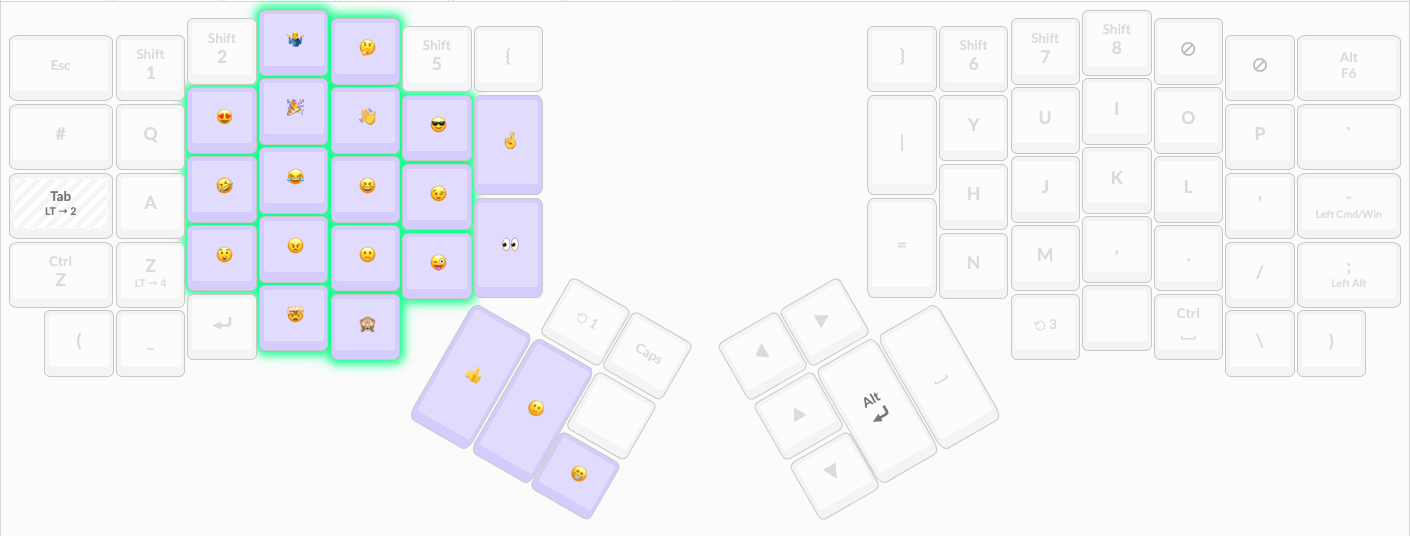
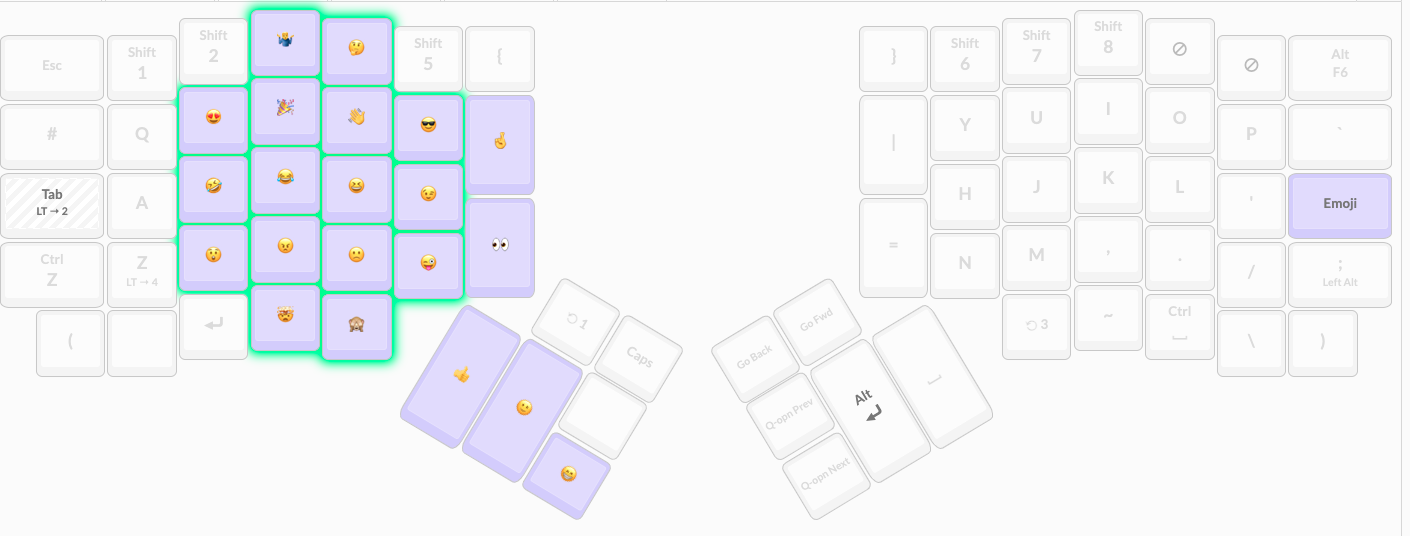
move emoji key

diff --git a/keyboards/ergodox_ez/keymaps/stoneman/keymap.c b/keyboards/ergodox_ez/keymaps/stoneman/keymap.c
@@ -68,8 +68,8 @@ const uint16_t PROGMEM keymaps[][MATRIX_ROWS][MATRIX_COLS] = {
   ),
   [2] = LAYOUT_ergodox_pretty(
     KC_TRANSPARENT, KC_TRANSPARENT, KC_TRANSPARENT, EMOJI_SHRUG,    EMOJI_THINKING, KC_TRANSPARENT, KC_TRANSPARENT,                                 KC_TRANSPARENT, KC_TRANSPARENT, KC_TRANSPARENT, KC_TRANSPARENT, KC_TRANSPARENT, KC_TRANSPARENT, KC_TRANSPARENT,
-    KC_EMOJI,       KC_TRANSPARENT, EMOJI_HEARTS,   EMOJI_TADA,     EMOJI_WAVE,     EMOJI_COOL,     EMOJI_FINGERS_X,                                KC_TRANSPARENT, KC_TRANSPARENT, KC_TRANSPARENT, KC_TRANSPARENT, KC_TRANSPARENT, KC_TRANSPARENT, KC_TRANSPARENT,
-    KC_TRANSPARENT, KC_TRANSPARENT, EMOJI_ROFL,     EMOJI_JOY,      EMOJI_LAUGH,    EMOJI_WINK,                                                                     KC_TRANSPARENT, KC_TRANSPARENT, KC_TRANSPARENT, KC_TRANSPARENT, KC_TRANSPARENT, KC_TRANSPARENT,
+    KC_TRANSPARENT, KC_TRANSPARENT, EMOJI_HEARTS,   EMOJI_TADA,     EMOJI_WAVE,     EMOJI_COOL,     EMOJI_FINGERS_X,                                KC_TRANSPARENT, KC_TRANSPARENT, KC_TRANSPARENT, KC_TRANSPARENT, KC_TRANSPARENT, KC_TRANSPARENT, KC_TRANSPARENT,
+    KC_TRANSPARENT, KC_TRANSPARENT, EMOJI_ROFL,     EMOJI_JOY,      EMOJI_LAUGH,    EMOJI_WINK,                                                                     KC_TRANSPARENT, KC_TRANSPARENT, KC_TRANSPARENT, KC_TRANSPARENT, KC_TRANSPARENT, KC_EMOJI,
     KC_TRANSPARENT, KC_TRANSPARENT, EMOJI_SHOCK,    EMOJI_ANGRY,    EMOJI_SAD,      EMOJI_WINKTNG,  EMOJI_EYES,                                     KC_TRANSPARENT, KC_TRANSPARENT, KC_TRANSPARENT, KC_TRANSPARENT, KC_TRANSPARENT, KC_TRANSPARENT, KC_TRANSPARENT,
     KC_TRANSPARENT, KC_TRANSPARENT, KC_TRANSPARENT, EMOJI_MINDBLO,  EMOJI_SEENOEVIL,                                                                                                KC_TRANSPARENT, KC_TRANSPARENT, KC_TRANSPARENT, KC_TRANSPARENT, KC_TRANSPARENT,
                                                                                                     KC_TRANSPARENT, KC_TRANSPARENT, KC_TRANSPARENT, KC_TRANSPARENT,
